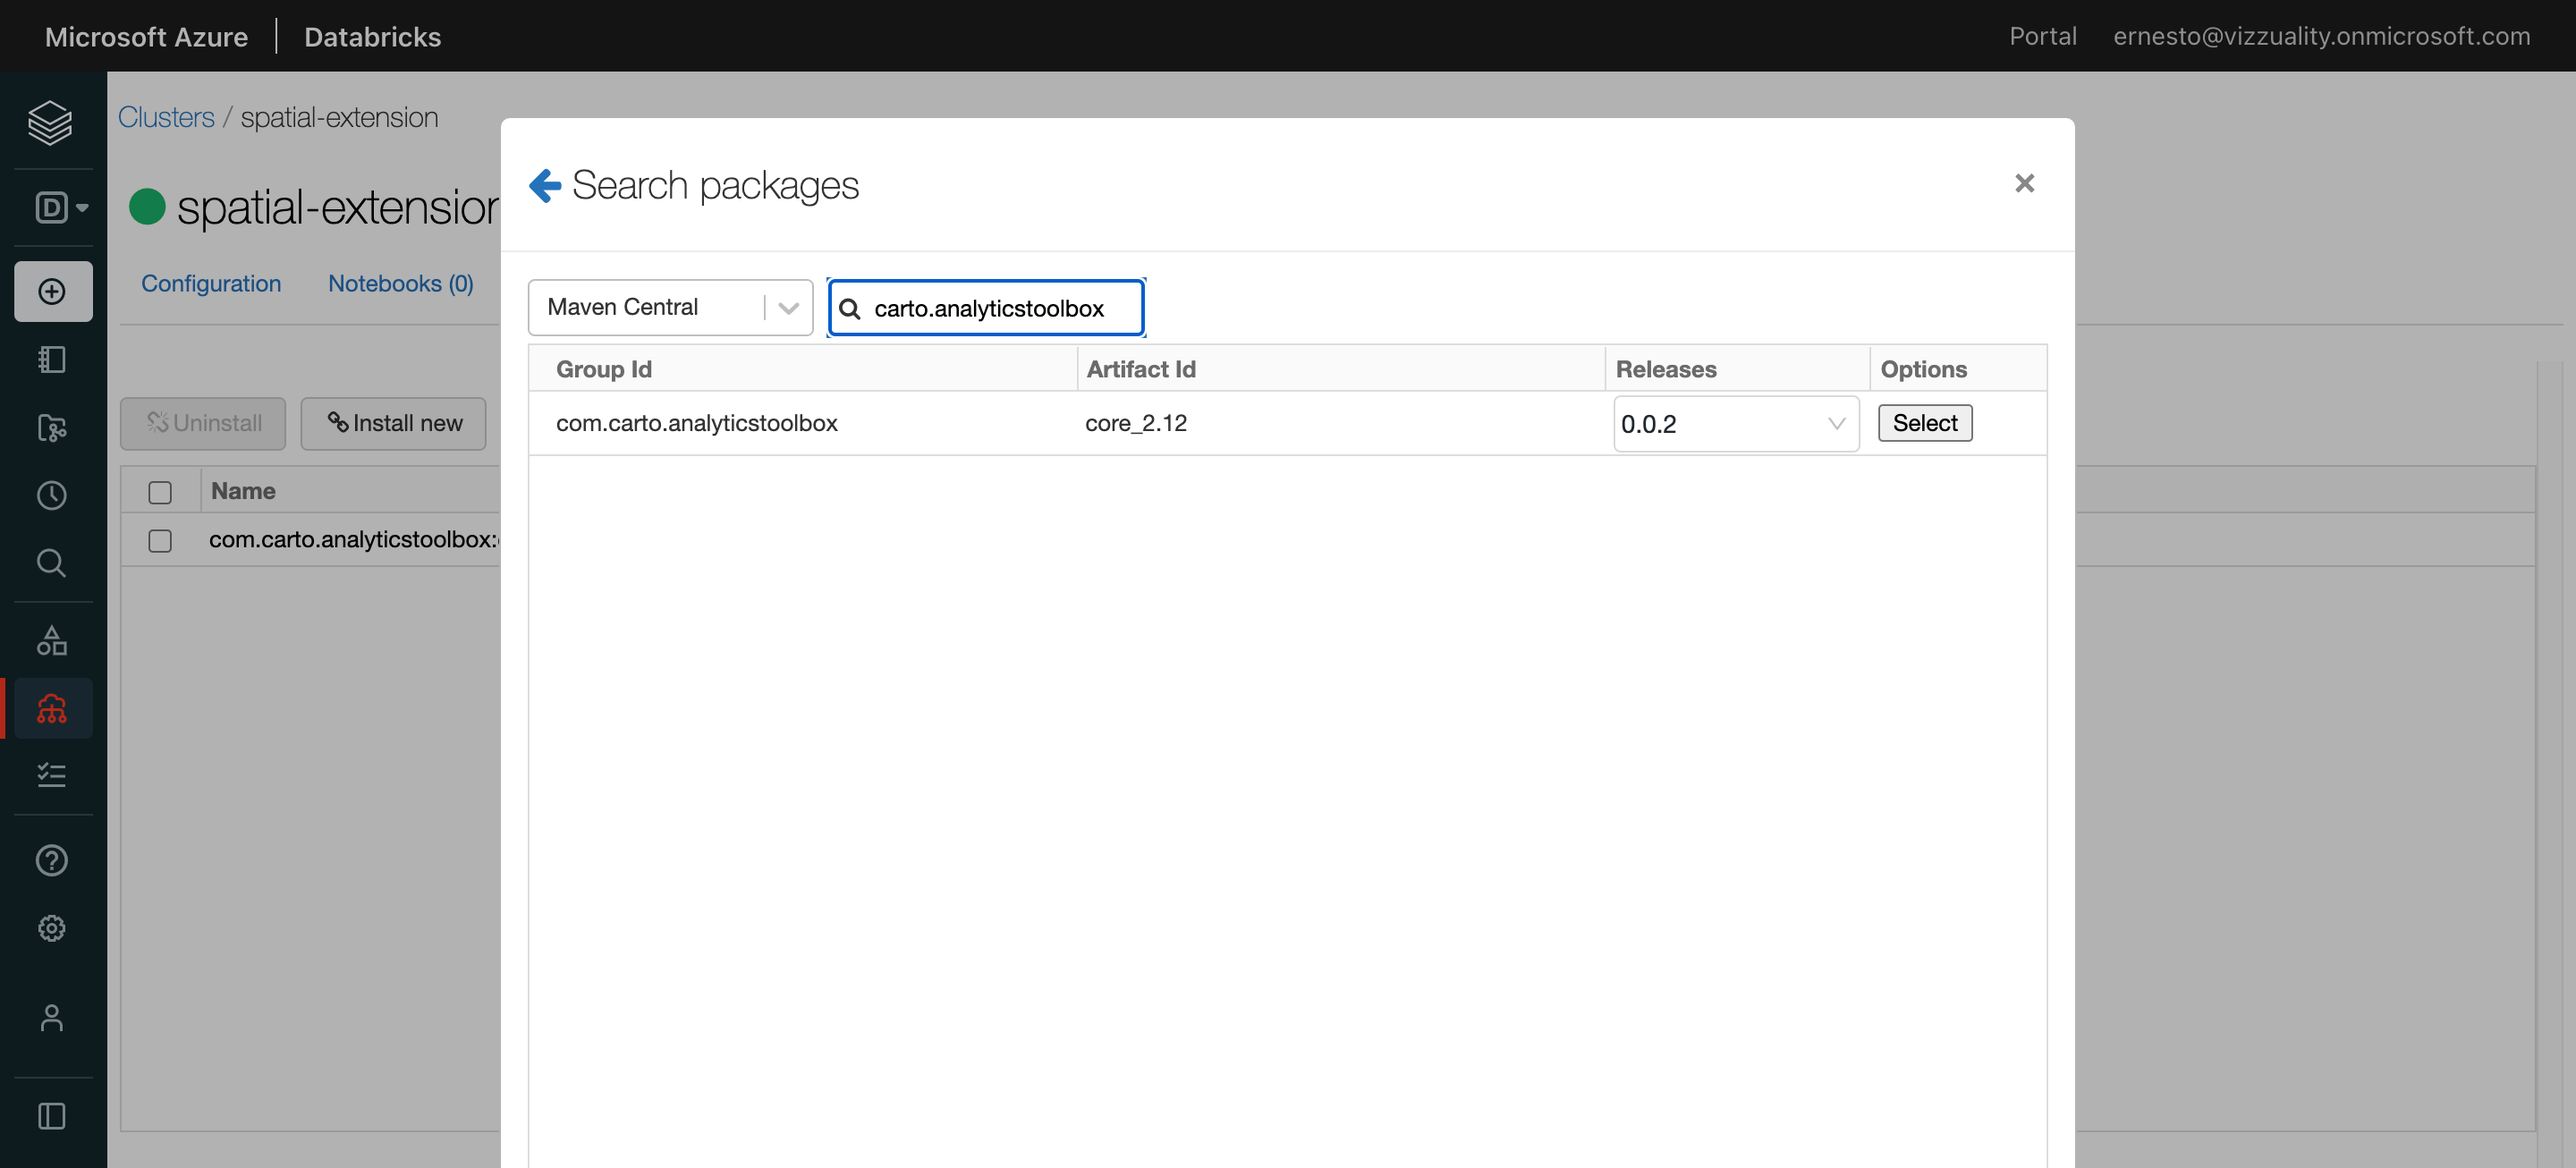
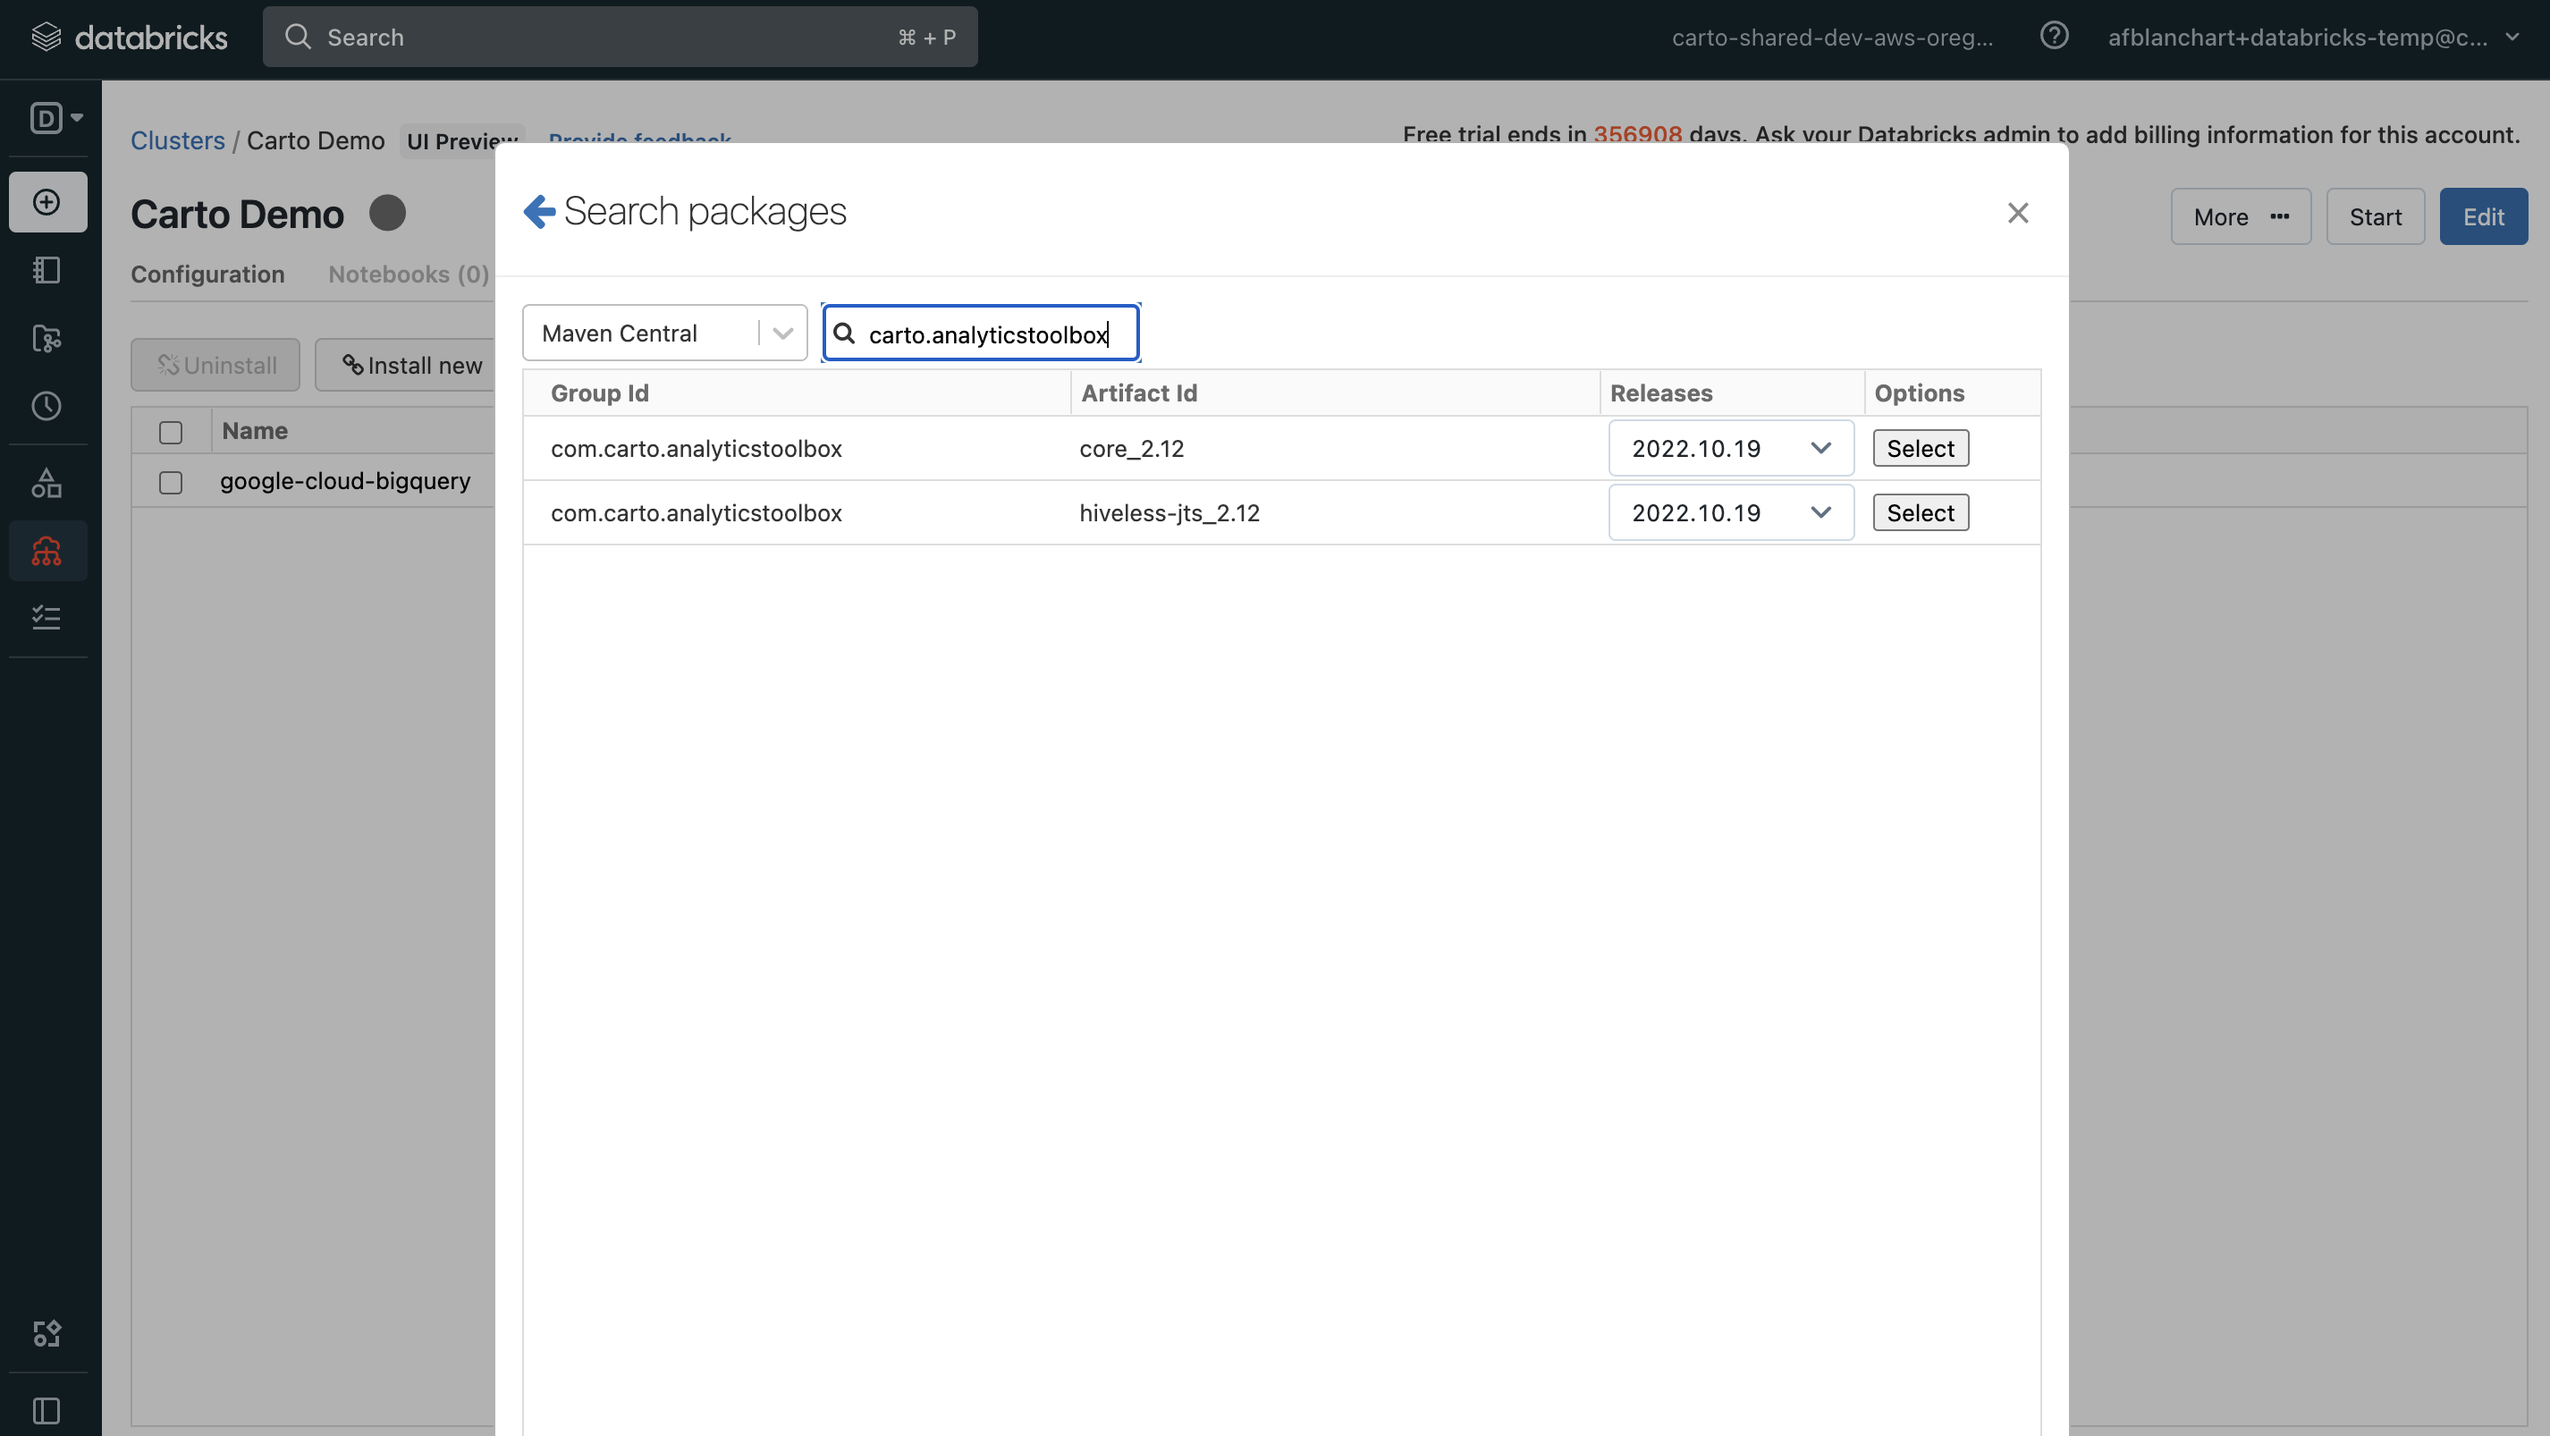
databricks-tiler-documentation-and-whats-new

diff --git a/app/content/analytics-toolbox-databricks/overview/installation.md b/app/content/analytics-toolbox-databricks/overview/installation.md
@@ -10,14 +10,15 @@ The CARTO Analytics Toolbox contains two packages:
 This guide explains how to install the core package. In order to access the **advanced** features, please contact support@carto.com.
 {{%/ bannerNote %}}
 
-To install the CARTO Analytics Toolbox in your Databricks cluster, follow the instructions below on your Databricks workspace UI:
+To install the core package of the Analytics Toolbox in your Databricks cluster, follow the instructions below on your Databricks workspace UI:
 
 * Click on _Compute_
 * Select the cluster where you want to install the Analytics Toolbox
 * Open the _Libraries_ tab
 * Click on _Install new_
 * Select _Maven_ as Library Source
-* Click on _Search Packages_, select _Maven Central_ and look for `carto.analyticstoolbox`; select the latest version and click on _Select_
+* Click on _Search Packages_, select _Maven Central_ and look for `carto.analyticstoolbox`; select the latest version of the one that their "Artifact Id" start as "core_" (the other one is a dependence that this one install under the hood, you do not need to install the package that their "Artefact Id" start with "hiveless").
+* Click on _Select_
 <div style="text-align:center" >
   <img src="/img/databricks-analytics-toolbox/databricks-install-at.png" alt="Install CARTO Analytics Toolbox in your cluster" style="width:100%">
 </div>

diff --git a/app/content/whats-new/analytics-toolbox-databricks-tiler.md b/app/content/whats-new/analytics-toolbox-databricks-tiler.md
@@ -9,10 +9,10 @@ tags:
   - new
 ---
 
-Starting today, it is available to Databricks users the possibility of generating H3 tilesets on their own data tables directly from the Databricks notebooks. 
+Starting today, our Databricks users have the possibility to generate [spatial index tilesets based on H3](https://docs.carto.com/analytics-toolbox-databricks/reference/tiler/#create_spatial_index_tileset) natively in Databricks. 
 </br>
 
-[The tiler](https://docs.carto.com/analytics-toolbox-databricks/reference/tiler/)  is a module of the advanced Analytics Toolbox for Databricks that allows to process and visualize very large spatial datasets stored in Databricks. If you are interested in it, please contact with support to receive more information about it. 
+The tiler is a module of our advanced Analytics Toolbox for Databricks that allows to process and visualize very large spatial datasets stored in Databricks. If you are interested in it, please contact with support@carto.com to receive more information about it.  
 
 <div class='video-wrapper'>
   <iframe src="https://player.vimeo.com/video/764328258?h=4050aa87d5&autoplay=1&muted=1&autopause=0&loop=1" width="100%" height="460" frameborder="0" allow="autoplay; fullscreen" allowfullscreen></iframe>

diff --git a/app/content/analytics-toolbox-databricks/overview/getting-started.md b/app/content/analytics-toolbox-databricks/overview/getting-started.md
@@ -14,5 +14,5 @@ The Analytics Toolbox is distributed as a JAR package, available and ready to be
 Visit the [SQL Reference](../../sql-reference/overview) to see the full list of available functions.
 
 {{% bannerNote title="NOTE" type="note" %}}
-The CARTO Analytics Toolbox is only needed to work with geometries. Support for **H3 indexes** is provided natively by Databricks and CARTO and it doesn't require any additional installation.
+The core package of Analytics Toolbox is only needed to work with geometries. Support for **H3 indexes** is provided natively by Databricks and CARTO and it doesn't require any additional installation.
 {{%/ bannerNote %}}

diff --git a/app/content/analytics-toolbox-databricks/guides/working-with-geospatial-data.md b/app/content/analytics-toolbox-databricks/guides/working-with-geospatial-data.md
@@ -1,5 +1,9 @@
 ## Working with geospatial data in Databricks
 
+{{% bannerNote title="BETA" type="tip" %}}
+The Analytics Toolbox for Databricks is in Beta stage and the API might be subject to changes in the future. 
+{{%/ bannerNote %}}
+
 Databricks doesn't have native support for geospatial data types. That means not being able to store geospatial data as a geometry.
 
 The CARTO Analytics Toolbox for Databricks provides geospatial capabilities through the functions it includes, but most of these functions expect geometry data as input, and return geometry data as output. 

diff --git a/app/content/analytics-toolbox-databricks/guides/creating-and-visualizing-a-tileset.md b/app/content/analytics-toolbox-databricks/guides/creating-and-visualizing-a-tileset.md
@@ -1,5 +1,9 @@
 ## Creating and visualizing a tileset
 
+{{% bannerNote title="NOTE" type="note" %}}
+The tiler is an advance module only for CARTO users; to get access please contact support@carto.com.
+{{%/ bannerNote %}}
+
 ### Import sample data (optional)
 
 In order to be able to reproduce the following guide, you can optionally import into your Databricks a sample table containing core demographic and environmental data, and POI aggregations by category unified in common geographic H3 support resolution 8.

diff --git a/app/content/analytics-toolbox-databricks/sql-reference/measurements.md b/app/content/analytics-toolbox-databricks/sql-reference/measurements.md
@@ -1,6 +1,6 @@
 ## measurements
 
-<div class="badges"><div class="core"></div></div>
+<div class="badges"><div class="experimental"><div class="core"></div></div>
 
 This module contains functions that compute measurements of distance, area and angles. There are also functions to compute geometry values determined by measurements.
 

diff --git a/app/content/analytics-toolbox-databricks/sql-reference/predicates.md b/app/content/analytics-toolbox-databricks/sql-reference/predicates.md
@@ -1,6 +1,6 @@
 ## predicates
 
-<div class="badges"><div class="core"></div></div>
+<div class="badges"><div class="experimental"><div class="core"></div></div>
 
 This module contains functions that return a boolean based on the relation between 2 geometries or its properties.
 

diff --git a/app/content/analytics-toolbox-databricks/sql-reference/constructors.md b/app/content/analytics-toolbox-databricks/sql-reference/constructors.md
@@ -1,6 +1,6 @@
 ## constructors
 
-<div class="badges"><div class="core"></div></div>
+<div class="badges"><div class="experimental"><div class="core"></div></div>
 
 This module contains functions that create new geographies from coordinates or already existing geographies.
 

diff --git a/app/content/analytics-toolbox-databricks/sql-reference/transformations.md b/app/content/analytics-toolbox-databricks/sql-reference/transformations.md
@@ -1,6 +1,6 @@
 ## transformations
 
-<div class="badges"><div class="core"></div></div>
+<div class="badges"><div class="experimental"><div class="core"></div></div>
 
 This module contains functions that compute geometric constructions, or alter geometry size or shape.
 

diff --git a/app/content/analytics-toolbox-databricks/sql-reference/parsers.md b/app/content/analytics-toolbox-databricks/sql-reference/parsers.md
@@ -1,6 +1,6 @@
 ## parsers
 
-<div class="badges"><div class="core"></div></div>
+<div class="badges"><div class="experimental"><div class="core"></div></div>
 
 This module contains functions that create different geometry types from an external format like WKT.
 

diff --git a/app/content/analytics-toolbox-databricks/sql-reference/formatters.md b/app/content/analytics-toolbox-databricks/sql-reference/formatters.md
@@ -1,6 +1,6 @@
 ## formatters
 
-<div class="badges"><div class="core"></div></div>
+<div class="badges"><div class="experimental"><div class="core"></div></div>
 
 This module contains functions that export geometries to an external format like WKT.
 

diff --git a/app/content/analytics-toolbox-databricks/sql-reference/accessors.md b/app/content/analytics-toolbox-databricks/sql-reference/accessors.md
@@ -1,6 +1,6 @@
 ## accessors
 
-<div class="badges"><div class="core"></div></div>
+<div class="badges"><div class="experimental"><div class="core"></div></div>
 
 This module contains functions that provide information about internal geometries.
 
